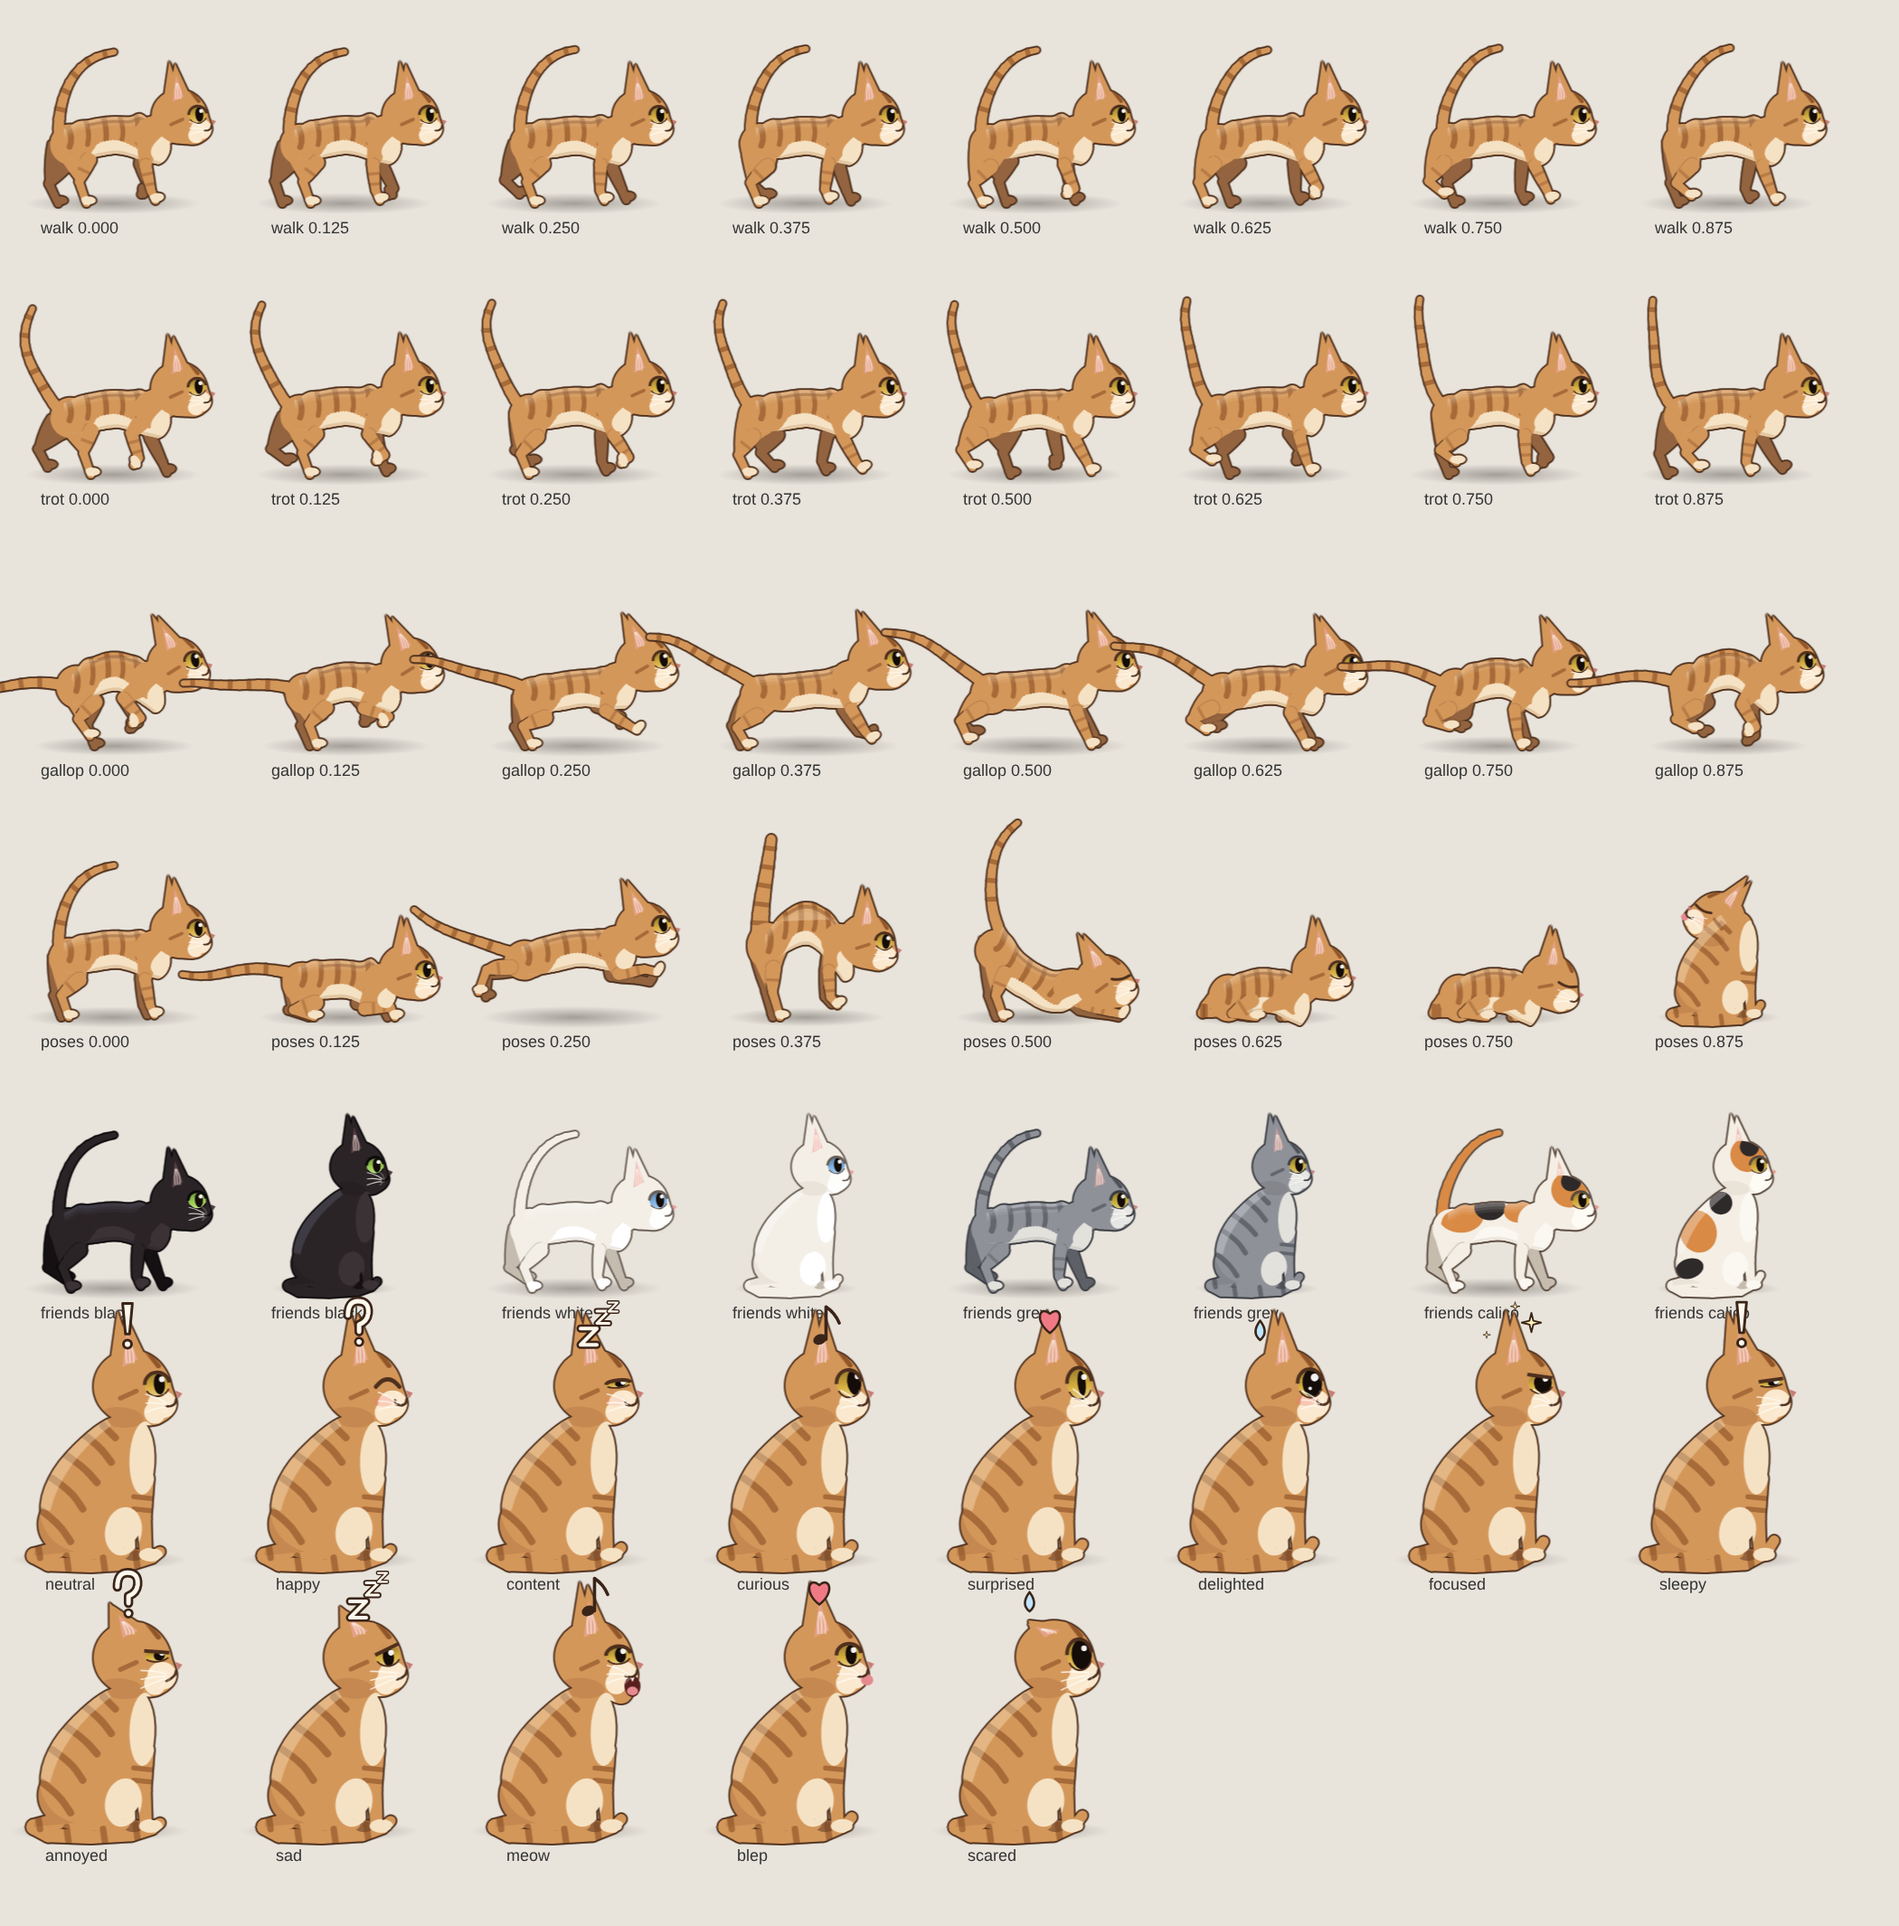
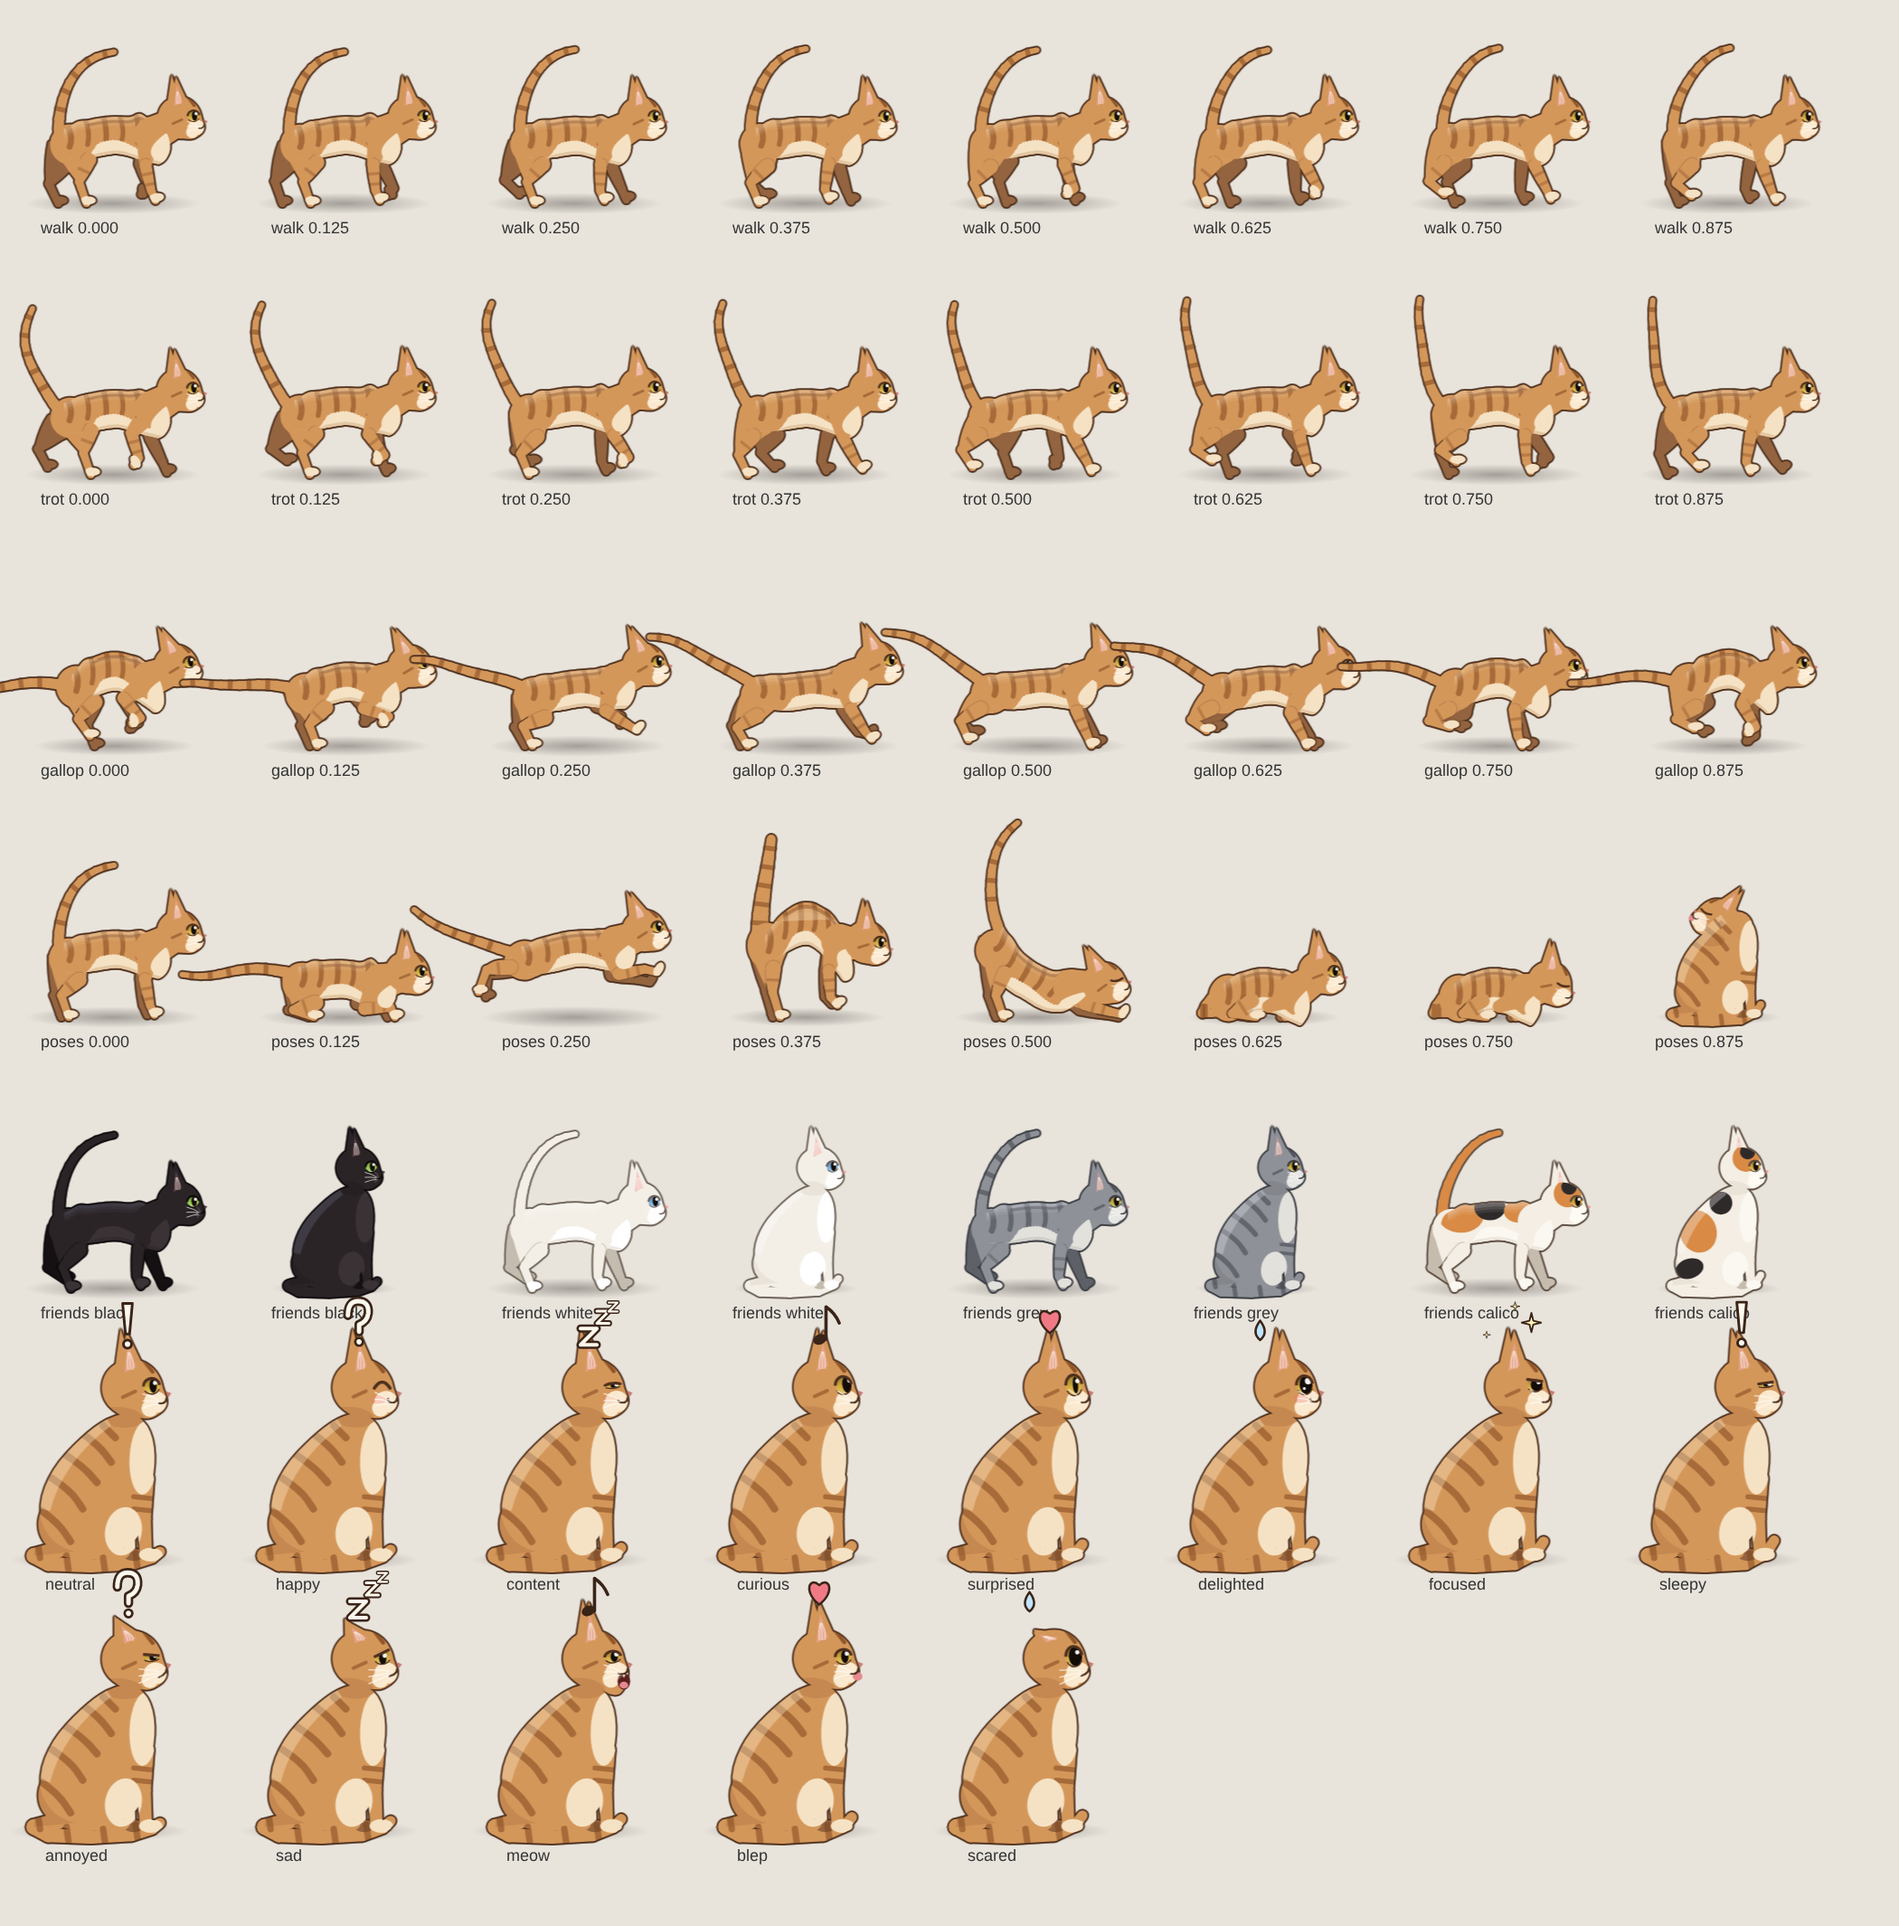
Cat: smaller head and eyes (torso ≈ 2.4 head lengths, eye ≈ 0.28 of head height)
Claude-Session: https://claude.ai/code/session_01VPbtjPGy5UqvDX4Qc8aXKN

diff --git a/src/cat3.js b/src/cat3.js
@@ -13,7 +13,8 @@ const COATS = {
     patches: [[0.05, 6, 16, 12, '#d98a45'], [0.42, 9, 11, 9, '#2f2a2a'], [0.78, 7, 10, 8, '#d98a45']], sitPatches: [[-22, -40, 13, 15, '#d98a45'], [-6, -60, 8, 8, '#2f2a2a'], [-28, -14, 10, 7, '#2f2a2a']], headPatches: [[-6.5, -7, 4, 7.5, '#d98a45'], [5, -10.5, 3, 4.2, '#2f2a2a']], tail: '#d98a45' },
   tuxedo: { base: '#26222a', shade: '#1a171d', far: '#121014', cream: '#f2efe8', creamS: '#d9d4ca', light: 'rgba(170,180,220,0.16)', stripe: null, line: '#0b090c', inner: 'rgba(0,0,0,0.6)', belly: 'rgba(250,248,242,0.95)', eye: '#e2c24c', nose: '#e39a9a', ear: '#5e4650' },
 };
-const HSR = 1.68, HSS = 1.62; // head scale (rig / sitting): a little big, so expressions read at film size
+// head scale (rig / sitting) and eye scale: torso ≈ 2.4 head lengths (a real cat is ≈ 4, a chibi ≈ 1.5); eye height ≈ 0.28 of the head
+let HSR = 1.3, HSS = 1.27, EYE3 = 1.05;
 let CB = null, CB2 = null, CB3 = null, CB4 = null, CB5 = null;
 const CBW = 720, CBH = 560, COX = 360, COY = 470;
 function cbufs() { if (!CB) { CB = mkCanvas(CBW, CBH); CB2 = mkCanvas(CBW, CBH); CB3 = mkCanvas(CBW, CBH); CB4 = mkCanvas(CBW, CBH); CB5 = mkCanvas(CBW, CBH); } }
@@ -360,7 +361,7 @@ function eye3(x, y, rx, ry, inner, q, P, sil, H) {
 }
 function face3(P, p, sil) {
   const q = { ...FACE0 }; for (const k in p) if (p[k] != null) q[k] = p[k];
-  const H = headView(q), m = q.mouth || 0, ES = 1.25, front = Math.cos((1 - H.tn) * 0.45 * Math.PI);
+  const H = headView(q), m = q.mouth || 0, ES = EYE3, front = Math.cos((1 - H.tn) * 0.45 * Math.PI);
   // inner ears (pink, with a cream tuft) on the ears that face us
   [-1, 1].forEach(s => { const e = earGeo(H, q, s), vis = clamp(H.d(s * 0.35, 1) * 1.4); if (e.dep < -2.5 || vis < 0.08) return;
     const mid = [(e.b1[0] + e.b2[0]) / 2, (e.b1[1] + e.b2[1]) / 2, (e.b1[2] + e.b2[2]) / 2], L3 = (u, a, b) => a.map((v, i) => v + (b[i] - v) * u);

diff --git a/CLAUDE.md b/CLAUDE.md
@@ -60,7 +60,7 @@ Inside `draw(lt)` use the layer helpers from `core.js`:
 ### The cat (`cat3.js`, `actions3.js`)
 - **Rig**: a pose is plain data — `hip`, `sh` (shoulder), `arch`, `head`, `hr` (head rotation), `turn` (head yaw: 0 profile → 1 facing the camera), four paw targets `fn/ff/hn/hf = [x, y, flex]`, `tail = [baseAngle, curl, waveAmp, waveFreq, onGround]` (+ optional `tailPh` to drive the wave from the gait, `tailW` thickness), `sb`/`hb` (shoulder-blade / hip bump on the topline), `g` (girth), plus the face parameters below. Legs are solved with 2-bone IK. Sitting uses a separate silhouette (`SITP`, `pose.sit = 1`).
 - **Poses**: `STAND3, CROUCH3, LEAP3, LAND3, STRETCH3, LOAF3, SLEEP3, SCARED3` (arched “Halloween cat”), `REAR3`, `LOAFT3`/`SLEEPT3` (loaf with the front paws tucked under the chest — `tuck: 1` draws the near forearm behind the body), `SITP`; `groom3(lt, t0, t1)` (actions3.js) is a sitting overlay that turns the head back over the shoulder (`turn` → 2, `hdx/hdy`) and licks the flank; generators `walkPose3(cycles, {trot, low, ear, eye, hr, tail})` (secondary motion — withers/pelvis height, shoulder-blade bump, head nod — is derived from which legs bear weight) and `gallopPose3(cycles)` (transverse lope; spine length changes ≤ ~11%, never stretch the body). Blend any two rig poses with `lp(a, b, u)`. Sit↔rig can't be blended — use `cross(qa, qb, u)` (a short dissolve).
-- **Compact torso**: rig poses are authored long and drawn compressed along x by `SPX` and lowered by `SPY` (`squashX` in `drawCat3`), with the leg bones shortened by `LEG` to match; `walkCyc3`/`gallopCyc3` and `noseW`/`pawW` already account for it. The torso is a full tube: the belly (`bot` in `bodyGeom3`) is one nearly level line with a slight pouch before the haunch, deepening only into the chest — never pinch the waist (it reads as a thin, stilt-legged cat when walking); belly-to-ground ≈ torso depth. Hind paws stand under the rump (`hn`/`hf` ≈ −38/−44), not under the middle of the body. Hind leg: short broad thigh (17.5) painted with the body, shin 19, long near-vertical metatarsal (hock ≈ 17.5 up) — keep the knee tucked up under the haunch, a low knee + low hock reads as a bird leg. `hindWeb` fills the notch between rump and shin so the back of the hind leg is one convex line from the rump to the heel; the inner contour is also cut away around the elbow and knee so no line shows where a leg leaves the body. The head sits low on the shoulders (`headPos3` pulls it 20% toward the withers).
+- **Compact torso**: rig poses are authored long and drawn compressed along x by `SPX` and lowered by `SPY` (`squashX` in `drawCat3`), with the leg bones shortened by `LEG` to match; `walkCyc3`/`gallopCyc3` and `noseW`/`pawW` already account for it. The torso is a full tube: the belly (`bot` in `bodyGeom3`) is one nearly level line with a slight pouch before the haunch, deepening only into the chest — never pinch the waist (it reads as a thin, stilt-legged cat when walking); belly-to-ground ≈ torso depth. Hind paws stand under the rump (`hn`/`hf` ≈ −38/−44), not under the middle of the body. Hind leg: short broad thigh (17.5) painted with the body, shin 19, long near-vertical metatarsal (hock ≈ 17.5 up) — keep the knee tucked up under the haunch, a low knee + low hock reads as a bird leg. `hindWeb` fills the notch between rump and shin so the back of the hind leg is one convex line from the rump to the heel; the inner contour is also cut away around the elbow and knee so no line shows where a leg leaves the body. The head sits low on the shoulders (`headPos3` pulls it 20% toward the withers). Head size `HSR`/`HSS` ≈ 1.3 (torso ≈ 2.4 head lengths; a real cat is ≈ 4) and eye scale `EYE3` ≈ 1.05 (eye ≈ 0.28 of head height) — bigger reads as a chibi, not an elegant cat.
 - **No foot sliding**: convert distance to gait cycles with `walkCyc3(dist, scale, trot)` / `gallopCyc3(dist, scale)`. A gallop needs ≈200 px/s to read as running.
 - **Rendering** (`drawRig`): far legs (darker `far` colour) → tail → body, with the **haunch and both near upper limbs painted into the body pass** so stripes and the cream underside run across them → the near upper arm painted *after* the body shading (clipped below the stripes) so the leg is one colour from shoulder to paw, one cream bib from chin to chest → near *lower* legs on their own layer (`CB3`) with a thin inner contour (`CB4`), kept only where it crosses a far leg (`CB5` holds the far legs) → neck and head. Then one outer outline by dilating the silhouette, optional rim light, face on top. Don't draw the thigh as a separate shape (it reads as a drumstick) and don't give limbs their own outlines. The cream belly stops before the haunch.
 - **Head**: a small 3D model (`headView`, `earGeo`, `headPath`: skull, cheeks + fur tufts, muzzle, chin, ears) projected at yaw `turn` (0 profile, 1 front, 2 looking back over the shoulder); no cheek tufts — they read as a growth; `headPath` merges skull, cheeks, muzzle and chin into one smooth contour (radial max → closing → blur), never draw the head as a union of separate circles (bumpy outline); `headSil` fills it into the silhouette and `face3`/`eye3` draw the features, so every expression works in profile, three-quarter and front view. `turnAt(lt, [[t0, t1, amount]])` ramps a look at the camera.
@@ -88,4 +88,4 @@ Additive-synthesis piano, detuned-saw strings, celesta and timpani, FFT-convolut
 - The body is always in side view; only the head turns toward the camera.
 - Text uses the system serif CJK font (Noto Serif CJK TC on Linux). On other systems the fallback font changes the look of titles.
 - Rendering is CPU-bound (~0.3 s/frame at 1080p with software WebGL). Splitting `render.cjs` into parallel chunks by time range would speed it up.
-- The cat is small in most shots; expressions rely on the slightly large head (`HSR`/`HSS`) and the comic marks. Close-up shots would show them better.
+- The cat is small in most shots; expressions rely on the comic marks and head turns. Close-up shots would show them better.

diff --git a/docs/CHANGELOG.md b/docs/CHANGELOG.md
@@ -2,6 +2,7 @@
 
 ## v4.2
 - **身體比例**：走路、跑步時身體中段不再細瘦。肚子改成一條接近水平、在後腿前微微下垂的線，只往胸口加深，不再收細腰；身體整體降低約 12%，腿的骨架等比例縮短，肚子到地面的高度和身體厚度接近（參考貓的解剖：胸口底部約在手肘高度，家貓腿相對身體偏短）。
+- **頭與眼睛縮小**：頭縮小約 23%（身體長度約為頭長的 2.4 倍；真實的貓約 4 倍，Q 版約 1.5 倍），眼睛再縮小約 16%（眼高約為頭高的 0.28），整體更優雅，表情仍看得清楚。
 - 背上的亮面改成三層漸淡，不再有一條硬邊；背中線的條紋順著背部曲線；臀部後緣更圓，腿稍微加粗。
 
 ## v4.1
